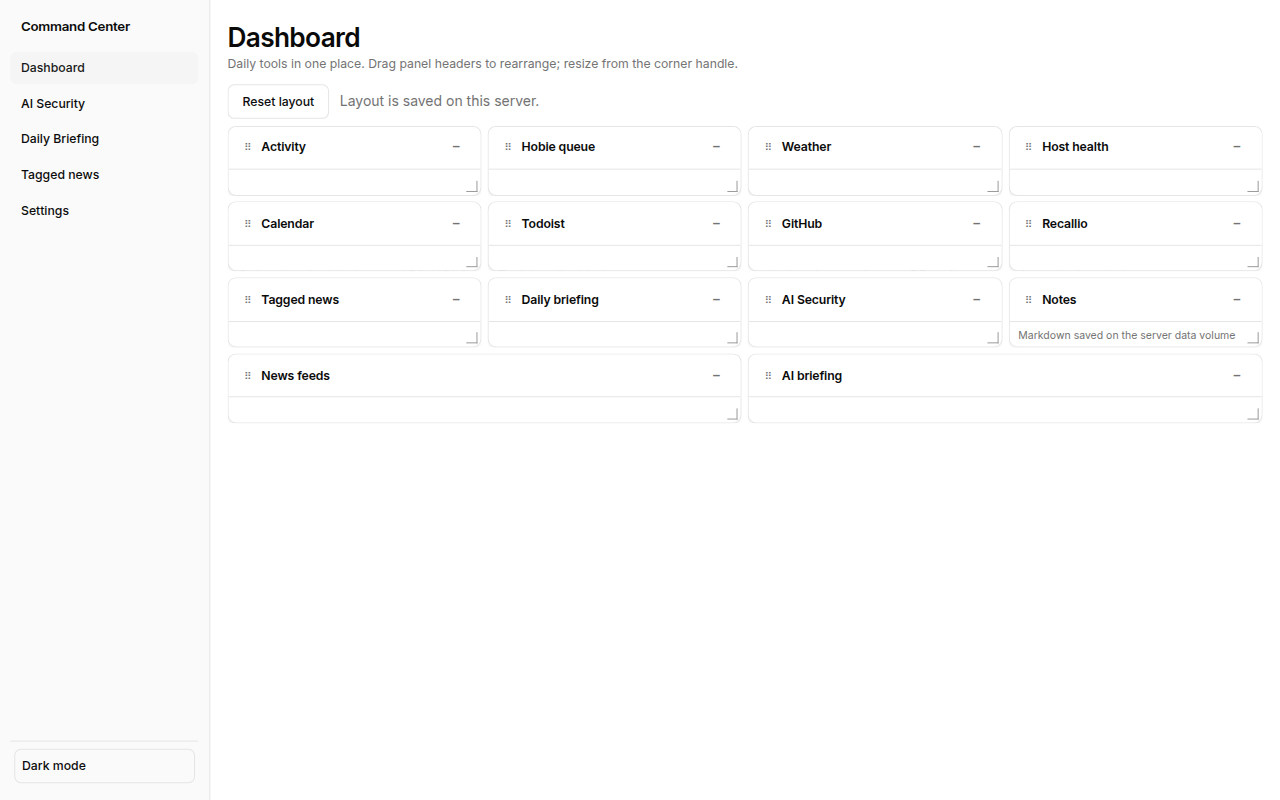
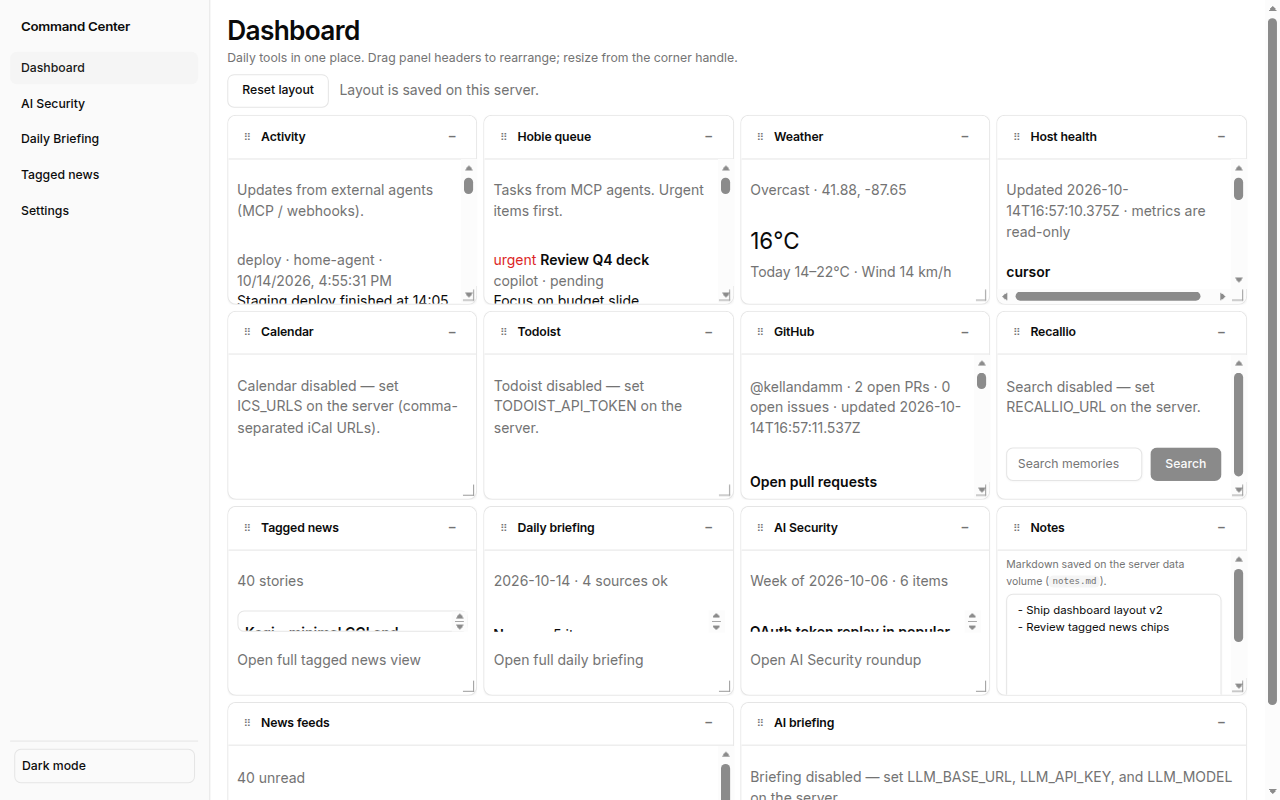
Fill dashboard viewport with scaled rows and screenshot seed data
Compute pixel row heights from the viewport so default tiles show real panel
content; allow page scroll only when the grid exceeds the window. Add
seed:dashboard-screenshot for realistic screenshot fixtures.

diff --git a/apps/server/src/ui/dashboard-grid.ts b/apps/server/src/ui/dashboard-grid.ts
@@ -3,18 +3,19 @@
 export const dashboardGridCss = `
 .dashboard-toolbar{display:flex;flex-wrap:wrap;gap:.75rem;align-items:center;margin-bottom:1rem}
 .dashboard-toolbar .dim{margin:0}
-.app-main:has(.dashboard-page){overflow:hidden;max-height:100vh}
-.page-content:has(.dashboard-page){max-height:100vh;overflow:hidden;padding-bottom:.75rem;box-sizing:border-box}
-.dashboard-page{overflow:hidden;max-height:100%}
-.dashboard-page .page-header{margin-bottom:.75rem}
+.app-shell:has(.dashboard-page){height:100vh;max-height:100vh;overflow:hidden}
+.page-content:has(.dashboard-page){
+  flex:1 1 0;min-height:0;display:flex;flex-direction:column;padding:1rem 1.25rem .75rem;box-sizing:border-box;
+  overflow-x:hidden;overflow-y:auto}
+.dashboard-page{flex:1 1 0;min-height:0;display:flex;flex-direction:column}
+.dashboard-page .page-header{margin-bottom:.5rem;flex-shrink:0}
 .dashboard-page .page-header p{margin:.2rem 0 0}
-.dashboard-page .dashboard-toolbar{margin-bottom:.5rem}
+.dashboard-page .dashboard-toolbar{margin-bottom:.5rem;flex-shrink:0}
 .dashboard-grid{
-  display:grid;grid-template-columns:repeat(12,minmax(0,1fr));gap:var(--dash-gap,6px);
-  grid-auto-rows:var(--dash-row,32px);position:relative;touch-action:none;
-  max-height:calc(100vh - 10.5rem);overflow:hidden}
+  flex:none;display:grid;grid-template-columns:repeat(12,minmax(0,1fr));
+  gap:var(--dash-gap,6px);position:relative;touch-action:none}
 .dashboard-item{
-  min-width:0;min-height:0;max-height:100%;overflow:hidden;display:flex;flex-direction:column;position:relative;
+  min-width:0;min-height:0;overflow:hidden;display:flex;flex-direction:column;position:relative;
   grid-column:var(--gc-start)/span var(--gc-span);grid-row:var(--gr-start)/span var(--gr-span)}
 .dashboard-item.is-dragging{opacity:.92;z-index:30;box-shadow:0 8px 24px rgba(0,0,0,.12)}
 .dashboard-item.is-collapsed .dashboard-panel-body{display:none}
@@ -33,7 +34,7 @@ export const dashboardGridCss = `
 .dashboard-collapse{
   border:0;background:transparent;color:var(--muted-foreground);min-width:2rem;min-height:2rem;
   padding:.25rem;border-radius:calc(var(--radius) - 4px);font-size:1rem;line-height:1;cursor:pointer}
-.dashboard-panel-body{flex:1;min-height:0;overflow:hidden;padding:.5rem .65rem .65rem;display:flex;flex-direction:column;gap:.35rem}
+.dashboard-panel-body{flex:1;min-height:0;overflow:auto;padding:.5rem .65rem .65rem;display:flex;flex-direction:column;gap:.35rem}
 .dashboard-panel-body .panel-scroll-region{flex:1;min-height:0;overflow:auto}
 .dashboard-panel-body>.row:first-child{display:none}
 .dashboard-panel-body>h2:first-child{display:none}
@@ -53,8 +54,8 @@ export const dashboardGridCss = `
 details.feed-item[open] .feed-headline summary::before{content:"▾ "}
 .feed-item .feed-summary{margin:.25rem 0 .35rem;font-size:.8125rem}
 .feed-item .feed-meta{margin:0;font-size:.75rem}
-#panel-notes #notes-editor{min-height:0;max-height:4.5rem;resize:vertical;font-size:.8125rem}
-#panel-briefing #briefing-body{max-height:4.5rem;margin:0;font-size:.75rem}
+#panel-notes #notes-editor{min-height:3rem;flex:1;max-height:100%;resize:none;font-size:.8125rem}
+#panel-briefing #briefing-body{flex:1;min-height:0;max-height:none;margin:0;font-size:.75rem}
 #panel-notes .dim{font-size:.75rem;margin:0}
 #panel-feeds .feeds-full-link{margin:.25rem 0 0;font-size:.8125rem}
 #panel-feeds .feeds-full-link a{text-decoration:underline;text-underline-offset:2px}
@@ -70,9 +71,37 @@ export function dashboardGridScript(): string {
 (function(){
   var grid=document.getElementById("dashboard-grid");
   if(!grid)return;
-  var COLS=12,ROW=32,GAP=6,saveTimer=null,lastMovedId=null;
-  grid.style.setProperty("--dash-row",ROW+"px");
+  var COLS=12,LAYOUT_VERSION=2,GAP=6,REF_ROW=32,saveTimer=null,lastMovedId=null;
   grid.style.setProperty("--dash-gap",GAP+"px");
+  grid.style.setProperty("--dash-rows","8");
+  function layoutRowCount(panels){
+    var max=8;
+    (panels||[]).forEach(function(p){
+      var end=p.y+(p.collapsed?1:p.h);
+      if(end>max)max=end;
+    });
+    return max;
+  }
+  function syncGridRows(panels){
+    var rows=layoutRowCount(panels);
+    grid.style.setProperty("--dash-rows",String(rows));
+    var page=document.querySelector(".dashboard-page");
+    if(!page)return;
+    var top=page.getBoundingClientRect().top;
+    var avail=Math.max(200,window.innerHeight-top-10);
+    var rowH=Math.max(52,(avail-GAP*(rows-1))/rows);
+    grid.style.gridTemplateRows="repeat("+rows+", "+rowH+"px)";
+    grid.style.height=(rowH*rows+GAP*(rows-1))+"px";
+    grid.dataset.rowPx=String(rowH);
+  }
+  function gridMetrics(){
+    var rows=parseInt(grid.style.getPropertyValue("--dash-rows"),10)||parseInt(grid.dataset.rows||"8",10);
+    var rowH=parseFloat(grid.dataset.rowPx||"52")||52;
+    var r=grid.getBoundingClientRect();
+    if(r.height>0)rowH=(r.height-GAP*(rows-1))/rows;
+    var colW=COLS?(r.width-GAP*(COLS-1))/COLS:80;
+    return {rows:rows,rowH:rowH,colW:colW};
+  }
 
   function titleFor(id){
     var map={
@@ -115,7 +144,7 @@ export function dashboardGridScript(): string {
         collapsed:collapsed
       });
     });
-    return {version:1,cols:COLS,rowHeight:ROW,panels:panels};
+    return {version:LAYOUT_VERSION,cols:COLS,rowHeight:REF_ROW,panels:panels};
   }
 
   function effH(p){return p.collapsed?1:p.h}
@@ -144,6 +173,7 @@ export function dashboardGridScript(): string {
     return out;
   }
   function applyPanels(panels){
+    syncGridRows(panels);
     var byId={};
     panels.forEach(function(p){byId[p.id]=p});
     grid.querySelectorAll(".dashboard-item").forEach(function(el){
@@ -169,10 +199,10 @@ export function dashboardGridScript(): string {
   }
 
   function cellFromPoint(clientX,clientY){
+    var m=gridMetrics();
     var r=grid.getBoundingClientRect();
-    var colW=(r.width-GAP*(COLS-1))/COLS;
-    var x=Math.floor((clientX-r.left)/(colW+GAP));
-    var y=Math.floor((clientY-r.top)/(ROW+GAP));
+    var x=Math.floor((clientX-r.left)/(m.colW+GAP));
+    var y=Math.floor((clientY-r.top)/(m.rowH+GAP));
     return {x:Math.max(0,Math.min(COLS-1,x)),y:Math.max(0,y)};
   }
 
@@ -247,9 +277,9 @@ export function dashboardGridScript(): string {
         var startH=parseInt(item.style.getPropertyValue("--gr-span"),10)||3;
         var startX=ev.clientX,startY=ev.clientY;
         function move(e){
-          var colW=(grid.getBoundingClientRect().width-GAP*(COLS-1))/COLS;
-          var dw=Math.round((e.clientX-startX)/(colW+GAP));
-          var dh=Math.round((e.clientY-startY)/(ROW+GAP));
+          var m=gridMetrics();
+          var dw=Math.round((e.clientX-startX)/(m.colW+GAP));
+          var dh=Math.round((e.clientY-startY)/(m.rowH+GAP));
           var w=Math.max(2,Math.min(COLS,startW+dw));
           var h=Math.max(2,Math.min(24,startH+dh));
           var x=parseInt(item.style.getPropertyValue("--gc-start"),10)-1||0;
@@ -288,6 +318,7 @@ export function dashboardGridScript(): string {
   }
 
   function applyLayout(layout){
+    syncGridRows(layout.panels||[]);
     var byId={};
     (layout.panels||[]).forEach(function(p){byId[p.id]=p;});
     grid.querySelectorAll(".dashboard-item").forEach(function(el){
@@ -300,6 +331,8 @@ export function dashboardGridScript(): string {
   }
 
   setupChrome();
+  syncGridRows(readLayout().panels);
+  window.addEventListener("resize",function(){syncGridRows(readLayout().panels)});
   api("/api/dashboard-layout").then(function(r){applyLayout(r.layout||{});}).catch(function(){});
   var reset=document.getElementById("dashboard-reset-layout");
   if(reset)reset.addEventListener("click",function(){

diff --git a/apps/server/scripts/seed-dashboard-screenshot.ts b/apps/server/scripts/seed-dashboard-screenshot.ts
@@ -1,0 +1,121 @@
+/**
+ * Seed /data for dashboard screenshots: feeds, notes, MCP activity, Hobie queue,
+ * AI Security roundup, and v2 default layout.
+ */
+import { mkdir, writeFile } from "node:fs/promises";
+import { join } from "node:path";
+import { defaultDashboardLayout } from "../src/dashboard-layout/defaults";
+import { writeRoundupFile, roundupPath, ensureRoundupDir } from "../src/ai-security/storage";
+import type { AiSecurityRoundup } from "../src/ai-security/types";
+import { briefingDayPath, writeBriefingFile } from "../src/daily-briefing/storage";
+import type { DailyBriefingRecord } from "../src/daily-briefing/types";
+import { FeedsStore } from "../src/feeds/store";
+import { NotesStore } from "../src/notes/store";
+import { panels } from "../src/panels/registry";
+import { SettingsStore } from "../src/settings";
+import { HobieQueueStore } from "../src/stores/hobie-queue";
+import { PanelUpdatesStore } from "../src/stores/panel-updates";
+import { ensureDirs } from "../src/store";
+
+async function main() {
+  const dir = process.env.DATA_DIR ?? "/tmp/cc-dashboard-screenshot";
+  await ensureDirs(dir);
+
+  const settings = new SettingsStore(dir);
+  await settings.load();
+  await settings.update({ feeds: "hn\n", fetchIntervalMinutes: 30, briefingTime: "07:00" });
+
+  const feeds = await FeedsStore.open(dir);
+  const now = new Date();
+  feeds.ingest("hn", [
+    { title: "Ukraine claims Starlink is suddenly disrupting service for its military", link: "https://example.com/a", summary: "Operators report intermittent drops along the eastern front." },
+    { title: "HomeView doesn't natively support 4K on older Apple TVs", link: "https://example.com/b", summary: "Workarounds involve wired backhaul and manual bitrate caps." },
+    { title: "Critical OpenSSL patch ships for embedded devices", link: "https://example.com/c", summary: "Vendors urge firmware updates within 48 hours." },
+    { title: "AI agents now draft half of internal status updates", link: "https://example.com/d", summary: "Teams still review before posting to company wiki." },
+    { title: "Rust 1.90 stabilizes async traits for library authors", link: "https://example.com/e", summary: "Migration guide highlights dyn compatibility changes." },
+  ], now);
+  await feeds.save();
+
+  const notes = await NotesStore.open(dir);
+  await notes.write("- Ship dashboard layout v2\n- Review tagged news chips\n");
+
+  const panelUpdates = await PanelUpdatesStore.open(dir);
+  await panelUpdates.append({ clientId: "copilot", panel: "activity", markdown: "PR #42 ready for review — CI green." });
+  await panelUpdates.append({ clientId: "home-agent", panel: "deploy", markdown: "Staging deploy finished at 14:05 UTC." });
+
+  const hobie = await HobieQueueStore.open(dir);
+  await hobie.enqueue({ clientId: "copilot", title: "Review Q4 deck", body: "Focus on budget slide.", urgent: true }, 20);
+  await hobie.enqueue({ clientId: "power-automate", title: "File expense report", body: "Receipt in email.", urgent: false }, 20);
+
+  const aiDir = join(dir, "ai-security");
+  await ensureRoundupDir(aiDir);
+  const roundup: AiSecurityRoundup = {
+    weekOf: "2026-10-06",
+    publishedAt: now.toISOString(),
+    items: [
+      { title: "OAuth token replay in popular CI plugin", summary: "Rotate integration secrets and upgrade the CI plugin to the patched release.", sourceUrl: "https://example.com/sec1", date: "2026-10-08" },
+      { title: "Prompt injection in support chatbots", summary: "Sanitize tool outputs before sending them back to the language model.", sourceUrl: "https://example.com/sec2", date: "2026-10-09" },
+      { title: "S3 bucket exposed via misconfigured CDN", summary: "Block public ACLs on the bucket and enable object access logging.", sourceUrl: "https://example.com/sec3", date: "2026-10-09" },
+      { title: "npm package typosquat wave", summary: "Verify package names in lockfiles before running install in CI.", sourceUrl: "https://example.com/sec4", date: "2026-10-10" },
+      { title: "Corporate SSO session fixation", summary: "Apply the identity provider vendor patch from the October advisory.", sourceUrl: "https://example.com/sec5", date: "2026-10-11" },
+      { title: "Firmware signing key leak", summary: "Revoke the exposed signing key and re-sign affected device images.", sourceUrl: "https://example.com/sec6", date: "2026-10-12" },
+    ],
+  };
+  await writeRoundupFile(roundupPath(aiDir, roundup.weekOf), roundup);
+
+  const briefing: DailyBriefingRecord = {
+    day: "2026-10-14",
+    generatedAt: now.toISOString(),
+    trigger: "manual",
+    sources: {
+      news: { status: "ok", data: { items: feeds.list({ limit: 5 }), itemCount: 5 } },
+      ai: { status: "ok", data: { content: "Quiet morning: two security advisories, one infra patch. Prioritize OpenSSL firmware.", itemCount: 2 } },
+      todoist: {
+        status: "ok",
+        data: {
+          overdue: [],
+          today: [
+            {
+              id: "1",
+              content: "Dashboard screenshot pass",
+              description: "",
+              priority: 3,
+              due: { date: "2026-10-14", datetime: null, string: "today" },
+              url: "https://todoist.com",
+            },
+          ],
+        },
+      },
+      weather: {
+        status: "ok",
+        data: {
+          lat: 41.88,
+          lon: -87.65,
+          weather: {
+            latitude: 41.88,
+            longitude: -87.65,
+            timezone: "America/Chicago",
+            current: { temperatureC: 16, weatherCode: 3, windKmh: 14, observedAt: now.toISOString() },
+            today: { highC: 22, lowC: 14, weatherCode: 3 },
+            label: "Overcast",
+          },
+        },
+      },
+      calendar: { status: "empty", message: "No events" },
+      github: { status: "empty", message: "Not configured" },
+    },
+  };
+  const briefingDir = join(dir, "daily-briefings");
+  await mkdir(briefingDir, { recursive: true, mode: 0o700 });
+  await writeBriefingFile(briefingDayPath(briefingDir, briefing.day), briefing);
+
+  const layout = defaultDashboardLayout(panels.map((p) => p.id));
+  await writeFile(join(dir, "dashboard-layout.json"), JSON.stringify(layout, null, 2));
+
+  console.log("seeded dashboard screenshot data at", dir);
+}
+
+main().catch((err) => {
+  console.error(err);
+  process.exit(1);
+});

diff --git a/apps/server/src/ui/layout.ts b/apps/server/src/ui/layout.ts
@@ -53,7 +53,7 @@ code{font-size:.875em;background:var(--muted);padding:.1em .35em;border-radius:c
 .sidebar-nav a:hover{background:var(--sidebar-accent);color:var(--sidebar-accent-foreground)}
 .sidebar-nav a.on{background:var(--sidebar-accent);color:var(--sidebar-accent-foreground)}
 .sidebar-footer{padding:.5rem .25rem;border-top:1px solid var(--sidebar-border);margin-top:.5rem}
-.app-main{flex:1;min-width:0;display:flex;flex-direction:column}
+.app-main{flex:1;min-width:0;min-height:0;display:flex;flex-direction:column}
 .page-content{flex:1;padding:1.5rem 1.25rem 2rem;width:100%;max-width:90rem;margin:0 auto}
 .page-header{margin-bottom:1.5rem}
 .page-header p{margin:.35rem 0 0;font-size:.875rem}

diff --git a/apps/server/src/dashboard-layout/defaults.ts b/apps/server/src/dashboard-layout/defaults.ts
@@ -1,10 +1,7 @@
 import type { DashboardLayout, PanelLayoutEntry } from "./types";
 import { GRID_COLS, GRID_ROW_HEIGHT_PX, LAYOUT_VERSION } from "./types";
 
-/**
- * 14 equal tiles in 8 grid rows (32px rows + 6px gaps ≈ 298px) — fits 1280×800 with
- * header/toolbar and no page scroll when panel bodies use internal overflow.
- */
+/** 14 tiles in 8 logical rows; the UI scales row height to fill the viewport at default size. */
 export const DEFAULT_PANEL_LAYOUT: PanelLayoutEntry[] = [
   { id: "activity", x: 0, y: 0, w: 3, h: 2 },
   { id: "hobie", x: 3, y: 0, w: 3, h: 2 },
